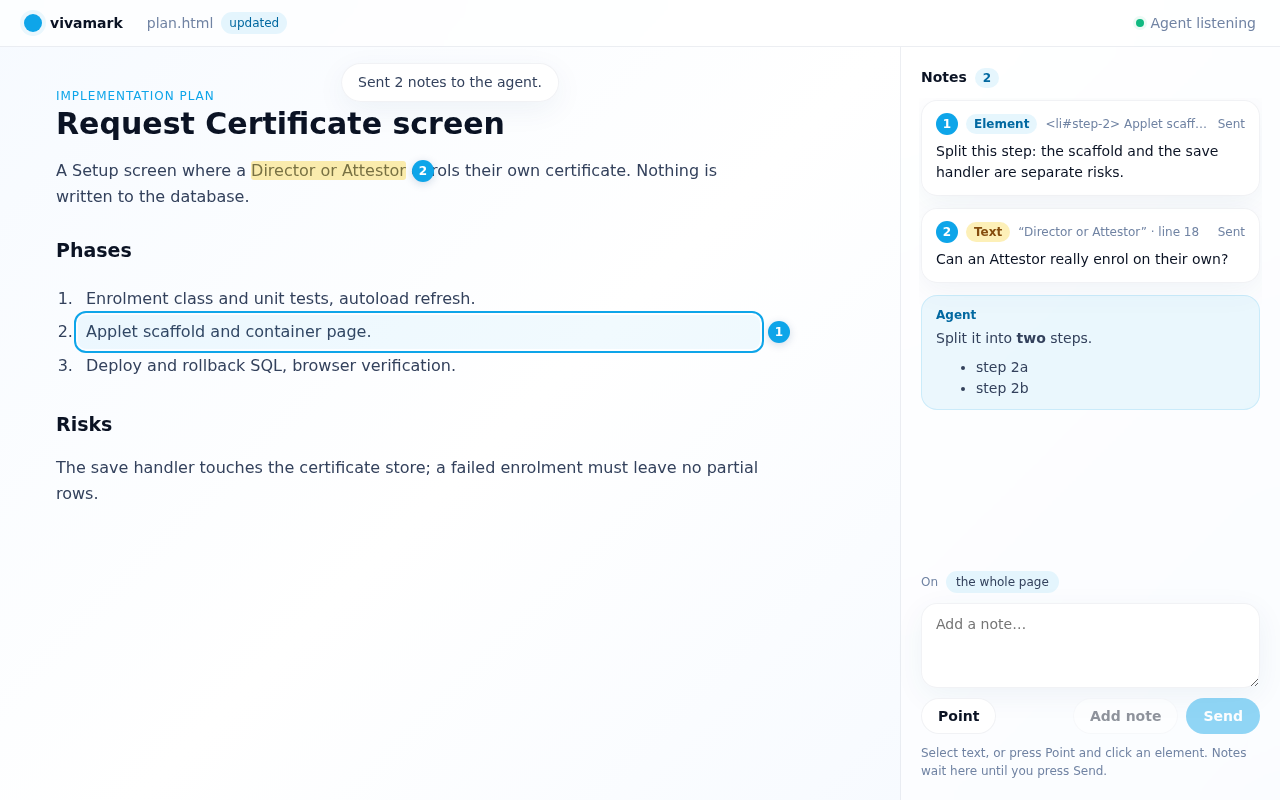
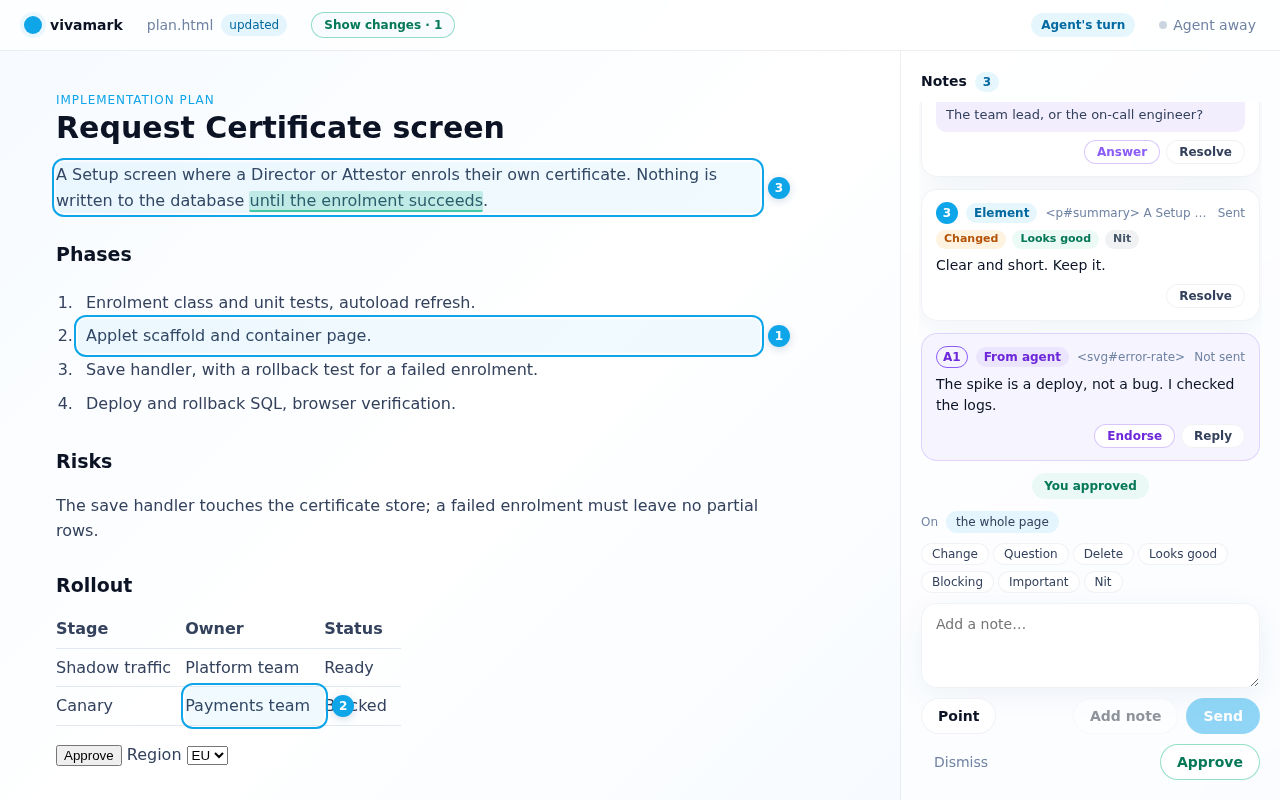
Describe F1-F8 in the README and --help, with a fresh screenshot
README's Try it walks through decisions, intents, per-note replies,
re-anchoring, Show changes, agent notes and Markdown; --help lists the new
commands and options and what wait returns. The example page gains a
table, controls and a chart to point at, and examples/plan.md is new.
scripts/screenshot.mjs regenerates docs/screenshots/review-ui.png, which
now shows intents and severities, an approval, an agent note and Show
changes. The review page hides its how-to hint once there are notes, so
the thread keeps the room.

diff --git a/src/cli.ts b/src/cli.ts
@@ -19,13 +19,12 @@ const HELP = `vivamark ${VERSION}: point at what you mean on a page; the agent g
 Usage:
   vivamark open <file.html> [--label k=v]... [--no-browser] [--json]
       Start (or resume) a review of a saved HTML or Markdown (.md) file and open
-      it in the browser. Markdown is rendered with raw HTML shown as text; each note
-      carries the source lines it points at.
+      it in the browser. Markdown is rendered with raw HTML shown as text.
   vivamark wait <file|session> [--after <seq>] [--timeout <dur>] [--owner <name>]
                 [-m <text> | --reply-file <file>] [--json]
-      Block until the reviewer sends notes, then print them. Nothing is consumed:
-      re-running wait returns the same notes until you pass --after <seq>.
-      -m posts a reply first, then waits.
+      Block until the reviewer sends notes or a decision, then print them.
+      Nothing is consumed: re-running wait returns the same notes until you
+      pass --after <seq>. -m posts a reply first, then waits.
   vivamark reply <file|session> (-m <text> | --file <file|->) [--json]
   vivamark reply <file|session> --note <id> --status addressed|declined|question
                 [-m <text>] [--json]
@@ -33,7 +32,8 @@ Usage:
       note: addressed, declined, or a question back to the reviewer (needs -m).
       The reviewer's answer arrives as a new note with "answers": <id>. Only the
       reviewer resolves a note.
-  vivamark note add <file|session> --text <text> [--target <target>] [--source <name>] [--json]
+  vivamark note add <file|session> --text <text> [--target <target>]
+                [--source <name>] [--json]
       Show the reviewer a note from the agent or a tool ("I guessed this number"),
       labelled with --source (default: agent). The target is line:<n> (or <n>),
       css:<selector> (or a selector starting with # or body), quote:<text>, or
@@ -44,12 +44,21 @@ Usage:
   vivamark stop
       Stop the background review server.
 
+What wait returns (--json; the text form says the same):
+  decision     request-changes, approve, approve-with-notes or dismiss
+  turn         agent while a note waits on you, else reviewer
+  orphaned     ids of notes whose target is gone from the file
+  per note     comment, intent (change, question, delete, looks-good), severity
+               (blocking, important, nit), motivation (W3C), status (open,
+               addressed, declined, question, answered, resolved), anchor with
+               lines [first, last], state (anchored, moved, orphaned) and
+               current place when it moved, cell {row, column}, control
+               {role, name} or point {x, y, width, height}, target_changed.
+
 Exit codes for wait:
-  0  notes, the reviewer requests changes      6  approved (or approved with notes)
+  0  notes; the reviewer requests changes     6  approved (or approved with notes)
   7  dismissed: the review closed with nothing 5  timeout
   1  error     130/143 interrupted, safe to re-run
-  The JSON output's "decision" field says the same: request-changes, approve,
-  approve-with-notes or dismiss.
 Durations: 90s, 5m, 1h, or milliseconds.
 `;
 

diff --git a/examples/plan.html b/examples/plan.html
@@ -10,6 +10,7 @@
   .eyebrow { font-size: 12px; letter-spacing: .08em; text-transform: uppercase; color: #0ea5e9; }
   ol { padding-left: 22px; }
   li { padding: 4px 8px; }
+  table { border-collapse: collapse; } th, td { border-bottom: 1px solid #e2e8f0; padding: 6px 14px 6px 0; text-align: left; }
 </style>
 </head>
 <body>
@@ -24,5 +25,16 @@
   </ol>
   <h2>Risks</h2>
   <p>The save handler touches the certificate store; a failed enrolment must leave no partial rows.</p>
+  <h2>Rollout</h2>
+  <table id="rollout">
+    <thead><tr><th>Stage</th><th>Owner</th><th>Status</th></tr></thead>
+    <tbody>
+      <tr><td>Shadow traffic</td><td>Platform team</td><td>Ready</td></tr>
+      <tr><td>Canary</td><td>Payments team</td><td>Blocked</td></tr>
+    </tbody>
+  </table>
+  <p><button type="button" aria-label="Approve rollout">Approve</button> <label>Region <select><option>EU</option><option>US</option></select></label></p>
+  <h2>Error rate in shadow traffic</h2>
+  <svg id="error-rate" width="320" height="120" viewBox="0 0 320 120" role="img" aria-label="Error rate"><rect width="320" height="120" rx="10" fill="#f0f9ff"/><polyline points="10,100 80,85 150,92 220,30 310,44" fill="none" stroke="#0ea5e9" stroke-width="3"/></svg>
 </body>
 </html>

diff --git a/src/ui/chrome.ts b/src/ui/chrome.ts
@@ -481,6 +481,8 @@ function render(): void {
   turnEl.dataset.turn = turn;
   turnEl.textContent = turn === 'agent' ? "Agent's turn" : 'Your turn';
   turnEl.title = turn === 'agent' ? 'Notes are waiting on the agent' : 'Nothing is waiting on the agent';
+  // The how-to hint is for an empty review; once there are notes the thread needs the room.
+  $('hint').hidden = sent.length + queue.length > 0;
   renderTags();
   renderChanges();
   postMarks();

diff --git a/README.md b/README.md
@@ -6,8 +6,11 @@ mean: a paragraph, a table cell, a line of a diff. You say what you want, and
 the agent receives each note tied to exactly that spot. It edits the file, the
 page updates in place, and the conversation carries on until you approve.
 
-> **Status: early.** The core loop works: `open`, `wait` and `reply` on an HTML
-> file. The first-version features F1–F8 are not built yet. See
+> **Status: early.** The core loop works (`open`, `wait` and `reply` on an
+> HTML or Markdown file), with the first-version features F1–F8: decisions,
+> "what changed", notes that re-attach after edits, intent and severity,
+> Markdown with line ranges, per-note replies with whose turn it is, notes
+> from the agent, and named table cells, controls and chart points. See
 > [`docs/DECISIONS.md`](docs/DECISIONS.md) for what has been decided and
 > [`docs/research/`](docs/research/) for how we got there.
 
@@ -31,21 +34,56 @@ the agent:
 node dist/cli.js wait examples/plan.html
 ```
 
-On the page, select some text, or press **Point** and click an element. Type a
-note and press **Add note**, then **Send**. `wait` prints each note with what it
-points at (an id or selector, the quoted text, and the line in the file) and
-exits. Answer on the page:
+On the page, select some text, or press **Point** and click an element: a
+paragraph, a table cell (named by its row and column), a button (named by its
+label) or a spot on a chart. Type a note, pick an intent (Change, Question,
+Delete, Looks good) and a severity if you like, and press **Add note**. On a
+queued note, one key does the same: C Q D G for the intent, B I N for the
+severity. Then decide:
+
+- **Send** requests changes. `wait` prints each note with what it points at
+  (an id or selector, the quoted text, the lines in the file) and exits 0.
+- **Approve** (or **Approve with notes**, when notes are queued) exits 6.
+- **Dismiss** closes the round with nothing and exits 7.
+
+Answer on the page, as a whole or note by note:
 
 ```sh
 node dist/cli.js reply examples/plan.html -m "Split step 2 as asked."
+node dist/cli.js reply examples/plan.html --note n_0001 --status addressed
+node dist/cli.js reply examples/plan.html --note n_0002 --status question -m "Which owner?"
 ```
 
-Edit `examples/plan.html` and the page reloads in place. Running `wait` again
-returns the same notes; `wait examples/plan.html --after <seq>` waits for newer
-ones. `node dist/cli.js --help` lists every option; `node dist/cli.js stop` stops
-the background server.
+A question shows on that note's card with an **Answer** button; the answer
+comes back to `wait` as a new note with `"answers": "n_0002"`. Only the
+reviewer resolves a note. The page and `wait` both say whose turn it is.
 
-![The review page](docs/screenshots/review-ui.png)
+Edit `examples/plan.html` and the page reloads in place. Every note is
+re-attached to the new file: `anchored`, `moved` (with where it is now), or
+`orphaned` when what it pointed at is gone, listed apart and never pinned to a
+guess. **Show changes** highlights what changed since you last sent. Running
+`wait` again returns the same notes; `wait examples/plan.html --after <seq>`
+waits for newer ones.
+
+The agent, or a tool, can point things out to the reviewer. Such a note is
+shown labelled with its source and reaches `wait` only if the reviewer
+endorses it or replies to it:
+
+```sh
+node dist/cli.js note add examples/plan.html --target '#step-3' --text "I guessed this order." --source agent
+```
+
+Markdown works the same way, and each note carries `lines: [first, last]` in
+the source:
+
+```sh
+node dist/cli.js open examples/plan.md
+```
+
+`node dist/cli.js --help` lists every option and what `wait` returns;
+`node dist/cli.js stop` stops the background server.
+
+![The review page: notes with intents and severities, an approval, and Show changes](docs/screenshots/review-ui.png)
 
 ## What it will be
 

diff --git a/examples/plan.md b/examples/plan.md
@@ -1,0 +1,22 @@
+# Request Certificate screen: plan
+
+A Setup screen where a Director or Attestor enrols their own certificate.
+Nothing is written to the database.
+
+## Phases
+
+1. Enrolment class and unit tests, autoload refresh.
+2. Applet scaffold, save handler and container page.
+3. Deploy and rollback SQL, browser verification.
+
+## Rollout
+
+| Stage          | Owner         | Status  |
+|----------------|---------------|---------|
+| Shadow traffic | Platform team | Ready   |
+| Canary         | Payments team | Blocked |
+
+## Risks
+
+The save handler touches the certificate store; a failed enrolment must leave
+no partial rows.
